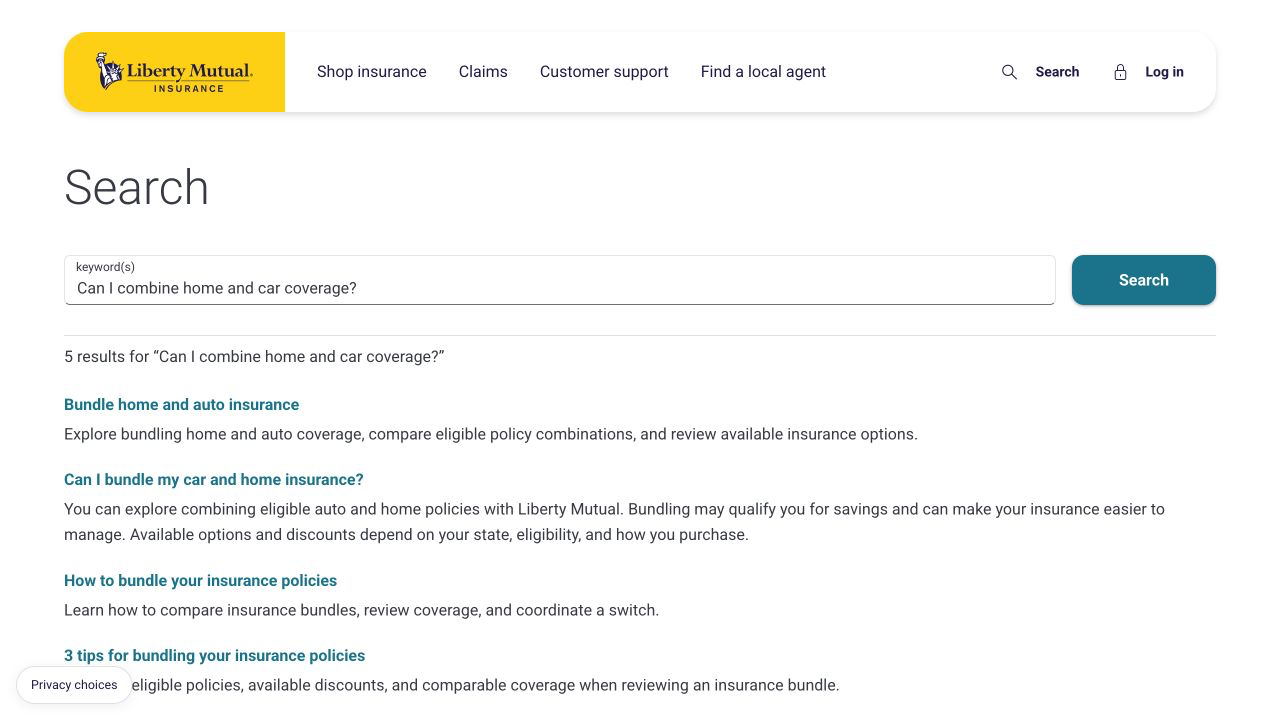
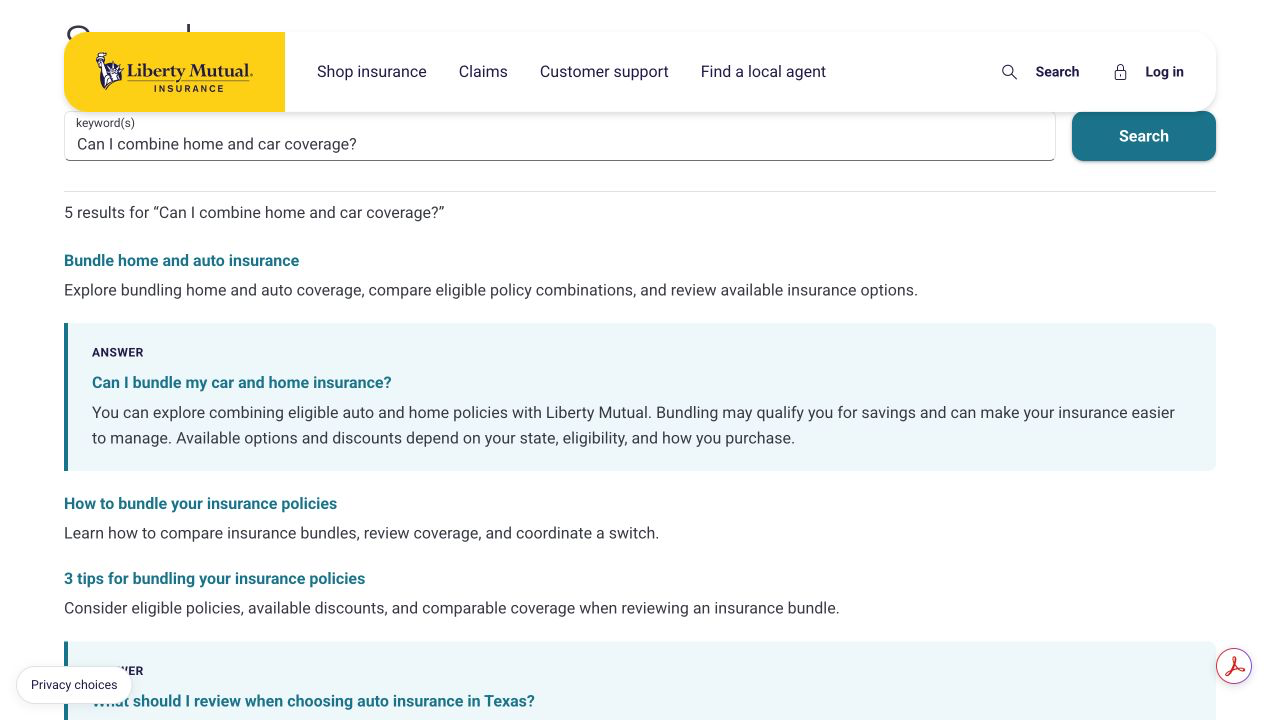
Lead the focused Search demo with the published bundling page (#216)

diff --git a/examples/liberty-mutual-agent-portal/src/features/workshops/customer-demo/content.ts b/examples/liberty-mutual-agent-portal/src/features/workshops/customer-demo/content.ts
@@ -79,7 +79,7 @@ export const customerDemoChapters: DemoChapter[] = [
         objective:
           "Help a visitor find relevant approved guidance from a conversational question, with an agent-assisted next step when the subject needs further help.",
         stopWhen:
-          "The supported question shows the range of relevant published results and the approved answer excerpt, and the unsupported question ends with No results found and Contact an agent.",
+          "The supported question shows Bundle home and auto insurance as the lead result with its excerpt and related published guidance, and the unsupported question ends with No results found and Contact an agent.",
         inputs: [
           {
             beforeLine: 1,
@@ -96,7 +96,7 @@ export const customerDemoChapters: DemoChapter[] = [
         ],
         presenterPoints: [
           "**Say:** “Your visitors can ask a question in their own words and find useful guidance. A clear route to an agent keeps the conversation moving when published content does not answer their question.”",
-          "Point to the related bundling results and the **Can I bundle my car and home insurance?** answer excerpt; leave results unopened.",
+          "Point to **Bundle home and auto insurance** as the lead result, which links to **/bundling**, then the related bundling articles; leave every result unopened.",
           "For the unsupported question, show **No results found** and **Contact an agent** as the clear next step.",
         ],
         presenterCues: [
@@ -117,8 +117,8 @@ export const customerDemoChapters: DemoChapter[] = [
           [
             "Paste **Supported search question** into **Search**, then select **Search**.",
             "Wait until **Searching…** finishes.",
-            "Show **How to bundle your insurance policies** and **3 tips for bundling your insurance policies**.",
-            "Highlight **Can I bundle my car and home insurance?** and its answer excerpt. Keep all results unopened.",
+            "Highlight **Bundle home and auto insurance** as the first result, which links to **/bundling**, and read its excerpt.",
+            "Briefly point out **How to bundle your insurance policies** and **3 tips for bundling your insurance policies**. Keep all results unopened.",
           ],
           [
             "Replace **keyword(s)** with **Unsupported search question**, then select **Search**.",
@@ -126,21 +126,21 @@ export const customerDemoChapters: DemoChapter[] = [
           ],
         ],
         presenterResult:
-          "The supported question returns relevant guidance; the unsupported question shows **No results found** and **Contact an agent**.",
+          "The supported question shows **Bundle home and auto insurance** first, alongside related published guidance. The unsupported question shows **No results found** and **Contact an agent**.",
         actions: [
           `In the **Public website** tab, open the [**public Home page**](${PUBLIC}/), and select **Search** in the header.`,
-          "In **Search**, enter **Can I combine home and car coverage?**, and select **Search**. Wait for **Searching…** to finish. Briefly point out **How to bundle your insurance policies** and **3 tips for bundling your insurance policies**, then highlight the **Can I bundle my car and home insurance?** result and its answer excerpt on the results page. Keep every result unopened.",
+          "In **Search**, enter **Can I combine home and car coverage?**, and select **Search**. Wait for **Searching…** to finish. Highlight **Bundle home and auto insurance** as the first result, which links to **/bundling**, and read its excerpt on the results page. Briefly point out **How to bundle your insurance policies** and **3 tips for bundling your insurance policies** as related guidance. Keep every result unopened.",
           "In **keyword(s)**, replace the query with **Does car insurance cover cyberextortion?**, and select **Search**. Show **No results found** and **Contact an agent**. End this loop with that contact option; leave the link unopened.",
         ],
         expected: [
-          "The conversational question returns relevant published guidance, including **How to bundle your insurance policies**, **3 tips for bundling your insurance policies**, and **Can I bundle my car and home insurance?**. The approved answer excerpt is visible in the results. The unsupported subject offers an agent-assisted next step.",
+          "The conversational question returns relevant published guidance: **Bundle home and auto insurance** is the lead result, alongside **How to bundle your insurance policies** and **3 tips for bundling your insurance policies**. The result excerpts help the visitor choose useful content. The unsupported subject offers an agent-assisted next step.",
         ],
         talkTrack: [
-          "One question brings back relevant published guidance, practical articles, and the approved answer. The visitor can compare useful guidance in the results without having to phrase the question exactly as Liberty Mutual does. When published guidance does not address the subject, Contact an agent provides the next step.",
+          "The visitor asks a question in everyday language. Search shows Liberty Mutual’s published bundling page first, with related guidance and useful excerpts. They can find the right starting point without knowing the page title. When published guidance does not address the subject, Contact an agent provides the next step.",
         ],
         controls: [
-          "**SitecoreAI Search** retrieves and ranks published guidance. The application’s authored-evidence check confirms whether approved source material addresses the question before presenting a result.",
-          "Published website pages join Search when their native **Include in site search** checkbox is selected. The articles and approved answers are managed and published in **SitecoreAI**.",
+          "**SitecoreAI Search** retrieves published pages. A native Search rule pins **Bundle home and auto insurance** as the lead result for bundling keywords. The application’s authored-evidence check confirms whether approved source material addresses the question before presenting a result.",
+          "Published website pages join Search when their native **Include in site search** checkbox is selected. The bundling page and related articles are managed and published in **SitecoreAI**.",
           "Optional measurement respects the visitor’s stored privacy preferences.",
         ],
         links: [
@@ -193,10 +193,10 @@ export const customerDemoChapters: DemoChapter[] = [
           },
           {
             file: "demo-public-search-results.png",
-            title: "Relevant results and the answer excerpt",
-            alt: "Find Can I bundle my car and home insurance? and read its approved answer excerpt directly in the results. Keep the results unopened.",
+            title: "The lead bundling result and related guidance",
+            alt: "Find Bundle home and auto insurance first, then the related How to bundle your insurance policies and 3 tips for bundling your insurance policies results. Keep the results unopened.",
             caption:
-              "Find **Can I bundle my car and home insurance?** and read its approved answer excerpt directly in the results. Keep the results unopened.",
+              "Find **Bundle home and auto insurance** first, read its excerpt, then point out the related **How to bundle your insurance policies** and **3 tips for bundling your insurance policies** results. Keep the results unopened.",
             afterAction: 2,
             crop: {
               x: 44,
@@ -208,19 +208,18 @@ export const customerDemoChapters: DemoChapter[] = [
             },
             annotations: [
               {
-                x: 1.68,
-                y: 44.3,
-                width: 96.64,
-                height: 10.6,
-                label: "Related bundling guidance",
+                x: 1,
+                y: 17,
+                width: 98,
+                height: 13,
+                label: "Lead result: **Bundle home and auto insurance**",
               },
               {
-                x: 1.68,
-                y: 59.6,
-                width: 96.64,
-                height: 14.39,
-                label:
-                  "Read the **Can I bundle my car and home insurance?** answer excerpt here.",
+                x: 1,
+                y: 62,
+                width: 98,
+                height: 26,
+                label: "Helpful related articles remain available",
               },
             ],
           },
@@ -258,7 +257,7 @@ export const customerDemoChapters: DemoChapter[] = [
           },
         ],
         transition:
-          "The customer has found relevant guidance and a clear next step. Now inspect the content behind that result and how the content team keeps it consistent and discoverable.",
+          "The customer has found a clear starting point and related guidance. Next, inspect the structured content behind one of those supporting resource results.",
       },
       {
         id: "public-discovery",

diff --git a/examples/liberty-mutual-agent-portal/src/features/workshops/customer-demo/content.test.ts b/examples/liberty-mutual-agent-portal/src/features/workshops/customer-demo/content.test.ts
@@ -276,11 +276,11 @@ test("the public Search loop proves both outcomes on the results page", () => {
   const live = prose(entry.actions);
   assert.match(
     live,
-    /enter Can I combine home and car coverage\?.*Can I bundle my car and home insurance\?/i,
+    /enter Can I combine home and car coverage\?.*Bundle home and auto insurance/i,
   );
   for (const required of [
     /Briefly point out How to bundle your insurance policies and 3 tips for bundling your insurance policies/i,
-    /result and its answer excerpt on the results page/i,
+    /first result.*excerpt on the results page/i,
     /Keep every result unopened/i,
     /keyword\(s\).*replace the query/i,
     /Contact an agent/i,
@@ -293,7 +293,7 @@ test("the public Search loop proves both outcomes on the results page", () => {
   );
   assert.match(
     entry.stopWhen,
-    /range of relevant published results.*approved answer excerpt.*unsupported question.*No results found.*Contact an agent/i,
+    /Bundle home and auto insurance as the lead result.*excerpt.*related published guidance.*unsupported question.*No results found.*Contact an agent/i,
   );
   assert.match(prose(entry.expected), /relevant published guidance/i);
   assert.doesNotMatch(
@@ -303,7 +303,7 @@ test("the public Search loop proves both outcomes on the results page", () => {
   for (const title of [
     "How to bundle your insurance policies",
     "3 tips for bundling your insurance policies",
-    "Can I bundle my car and home insurance?",
+    "Bundle home and auto insurance",
   ])
     assert(prose(entry.expected).includes(title));
   assert.equal(entry.durationMinutes, 2);
